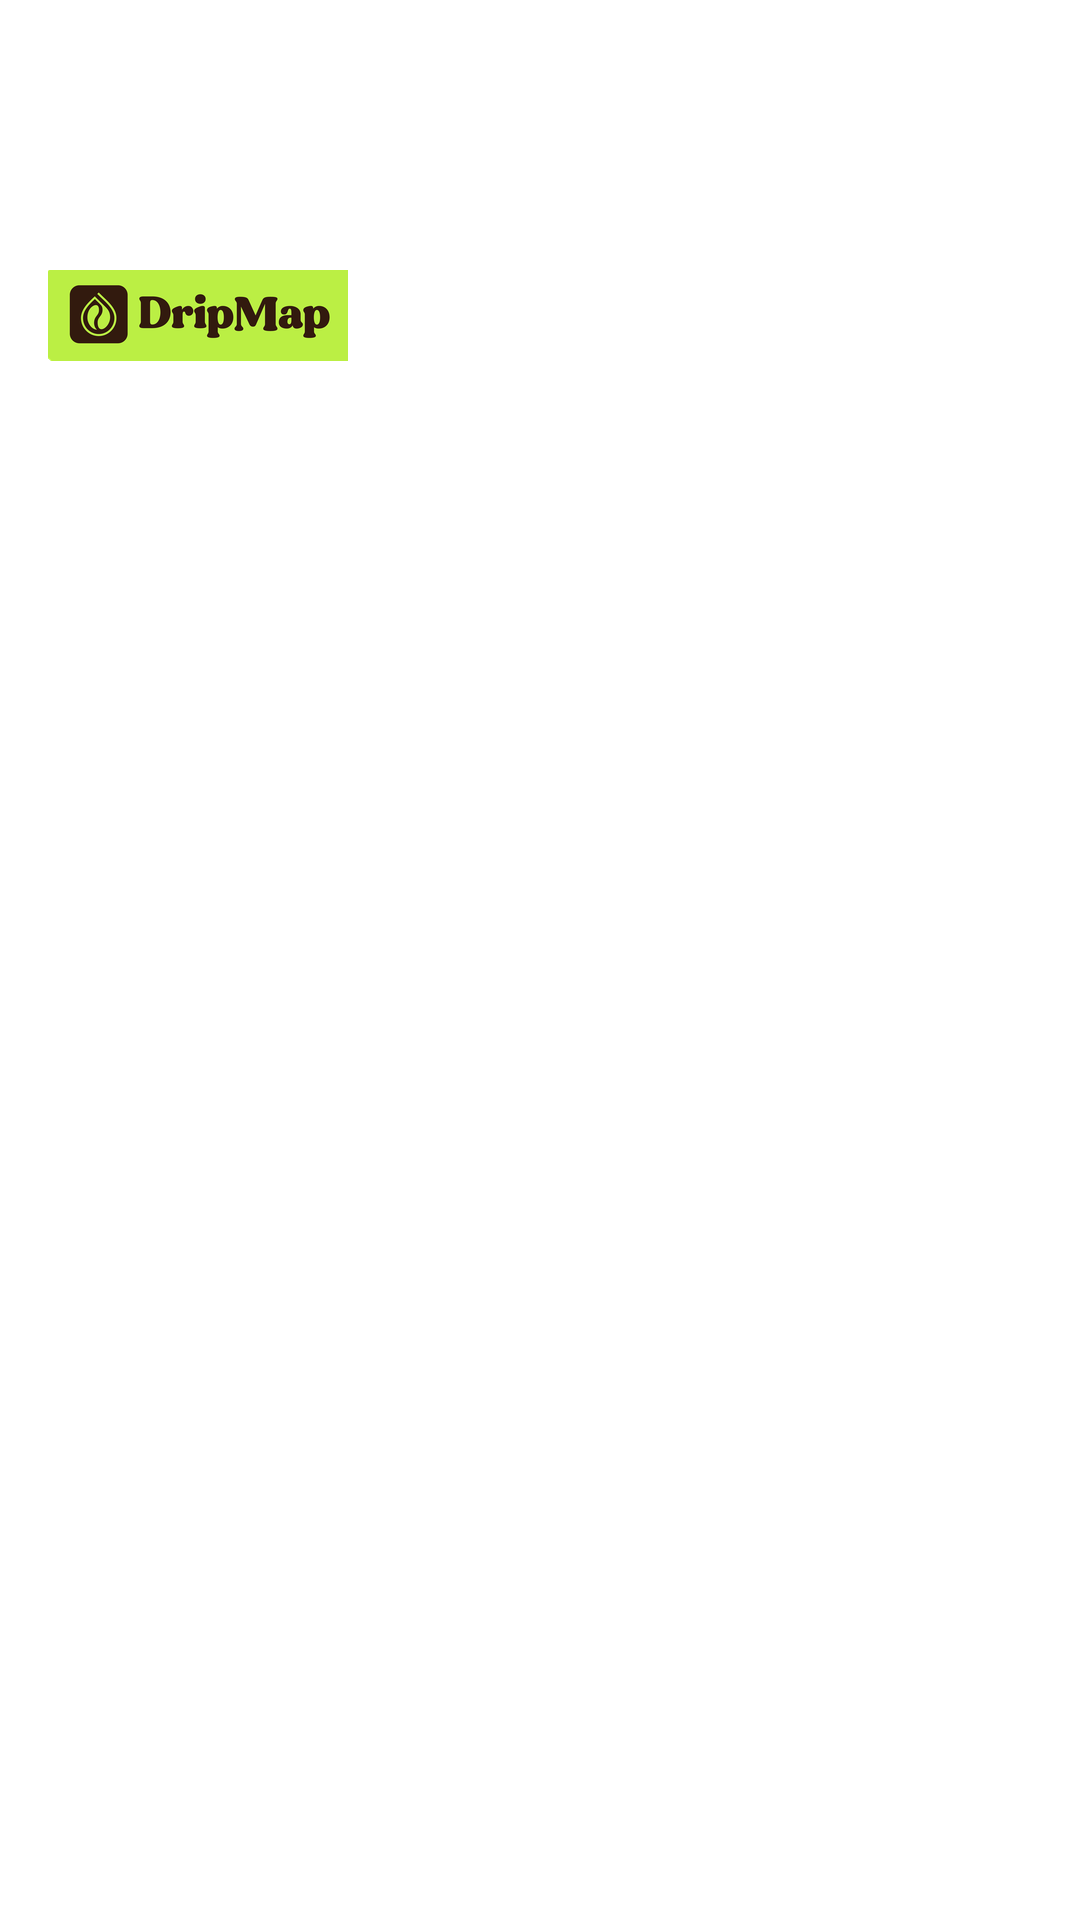
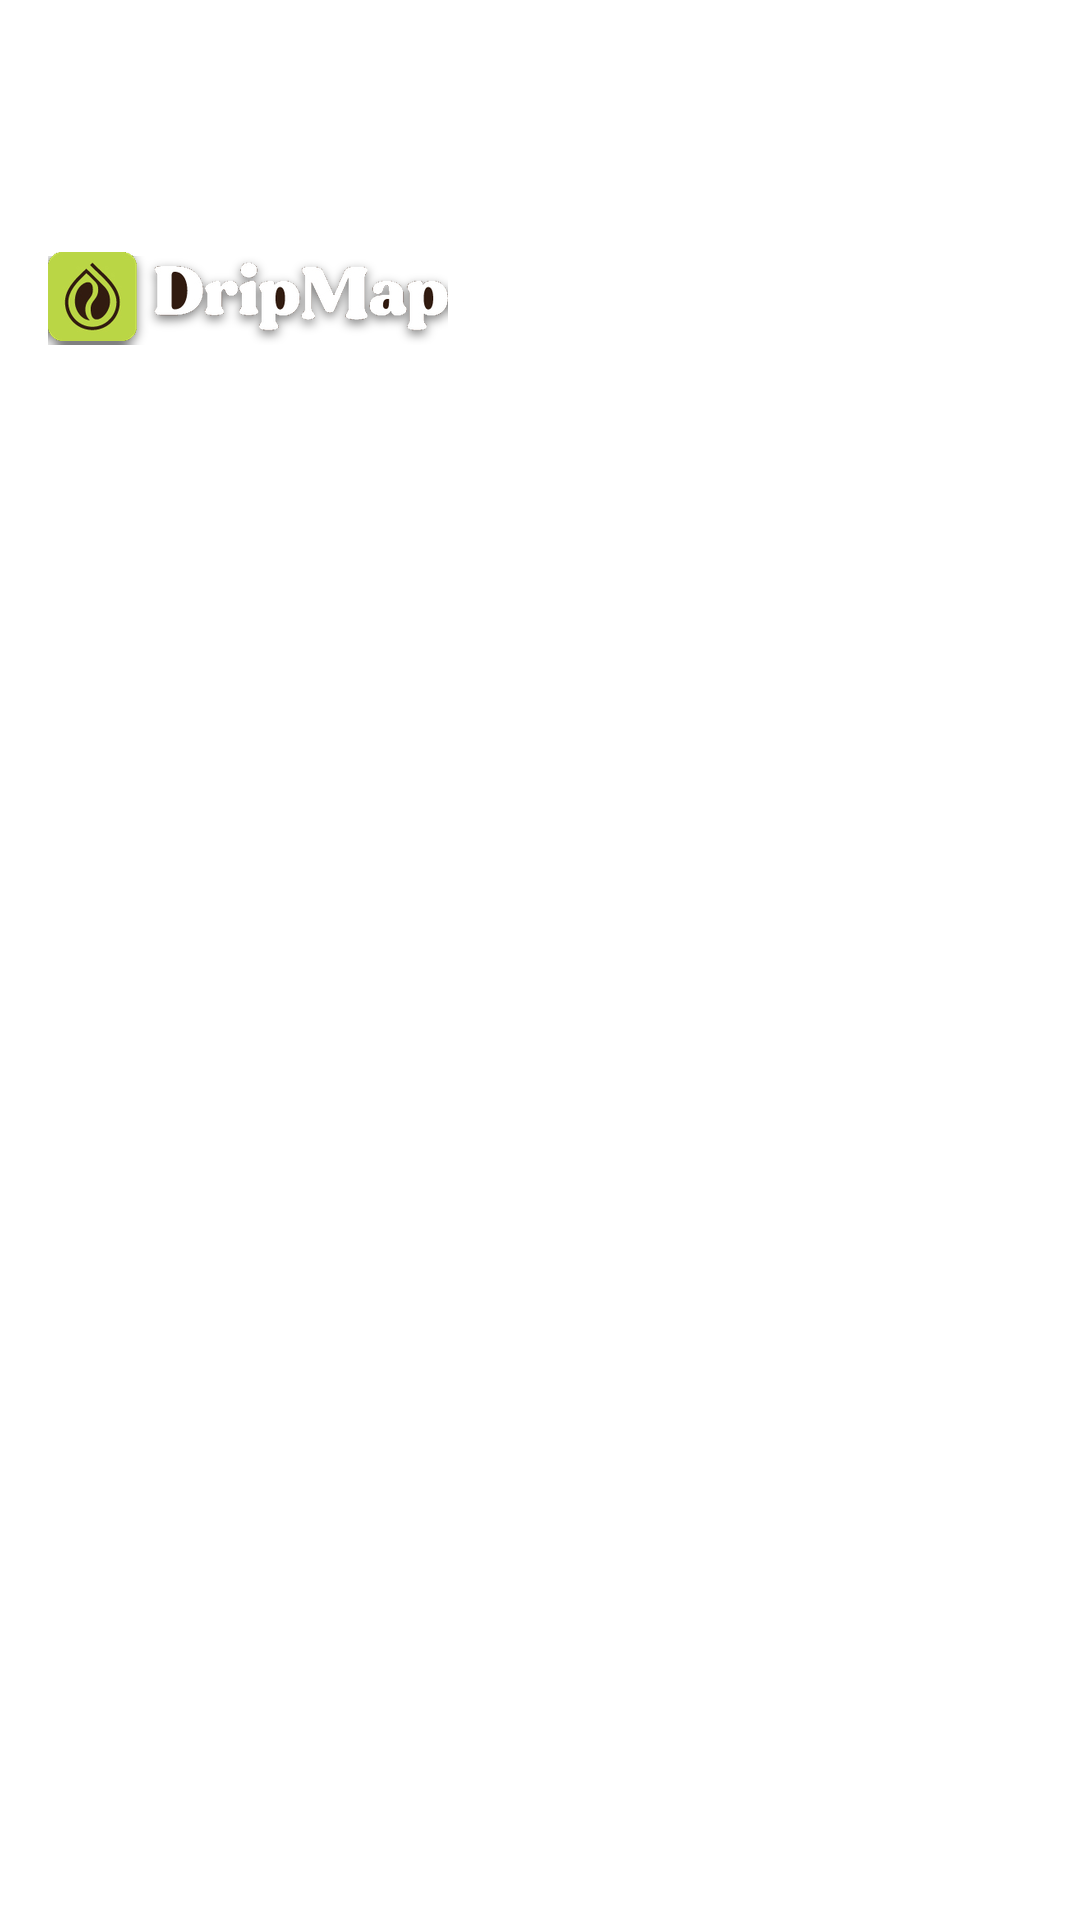
Assemble Episode 1 cut, rebuild DripMap overlay from the dark colourway
- Overlay is now the volt bean mark plus the white wordmark with no green
  panel, knocked out of public/logo-dark.jpg by flood filling the border with a
  brightness test. The artwork is unbacked, never redrawn. Committed PNG and a
  preview against mid-grey so the knockout can be checked.
- Cut timings are generated from measured speech (word-level transcription,
  0.30 s pre-roll, 0.50 s tail) instead of hand-picked trims, which had cut into
  dialogue on the first assembly.
- Shot 8b holds a second after the line; shot 10 re-rendered because the
  corkboard floated; shot 11c corrected to the take with the ROONEY'S sign.
- End card rewritten with the follow copy and doubled to 14 s.
- Documented the sandbox pipeline, including that local files reach it by
  media upload rather than base64 chunking.

Claude-Session: https://claude.ai/code/session_0158EeHJP6qCkUMCP3xqbB8B

Changed region(s): [[0.0306, 0.125, 0.4278, 0.1875]]

diff --git a/content/cafe-cherki/EPISODE_01_GRAND_OPENING.md b/content/cafe-cherki/EPISODE_01_GRAND_OPENING.md
@@ -283,17 +283,47 @@ Overlay `overlay/dripmap-overlay-1080x1920.png` on the top track for the full du
 | 6 | "He is, I'm afraid, taking the piss. … Not you, Doreen." | `ec23fe2c-5d45-4744-8bd4-84310ee10927` | seedance | 8 s | |
 | 7 | Madeleine with tweezers | `e8da70ec-8e32-4c3e-8024-7999cd6f047c` | kling3_0 | 5 s | silent + foley |
 | 8a | Haaland "Black coffee. Big." | `c7f58665-b888-415f-93b0-b12c14359347` | wan2_7 | 8 s | Haaland v3 puppet, British take A |
-| 8b | Cherki "Matchas only mate!" | `159f26cd-877e-48e2-a942-aeb0d5fefce9` | wan2_7 | 8 s | take B, comma removed |
+| 8b | Cherki "Matchas only mate!" | `159f26cd-877e-48e2-a942-aeb0d5fefce9` | wan2_7 | 8 s | take B; hold 1 s after the line before cutting |
 | 9 | Cherki CU, "C'est de l'art." | `5a8d4fd9-9886-4e46-8339-30ee67b49320` | seedance_2_5 | 6 s | Cherki alone in frame; Seedance after Wan could not hold sync |
-| 10 | Rashford dials, Maguire on the tea behind | `06c1d515-f1a6-4304-a5a2-3564b7e42c40` | kling3_0 | 5 s | silent + foley, corkboard fixed to wall |
+| 10 | Rashford dials, Maguire on the tea behind | `056829d1-796c-4c89-9c29-5db788450495` | kling3_0 | 5 s | silent + foley; corkboard re-pinned, camera locked off |
 | 11a | Grealish "I'm training in Ibiza, wot are you on about?" | `2633064a-e868-4ec8-b284-0d22d41e4c0d` | wan2_7 | 8 s | Ibiza terrace, blonde hair |
 | 11a′ | Rashford "I know." | `877c48e5-50e1-4c6d-8009-0ef9e8b28a6a` | wan2_7 | 6 s | |
 | 11b | Kane "Is this about the oat milk again?" | `38b7d7e8-d416-4b5f-8ba5-e1584f3a2dd8` | wan2_7 | 6 s | audio padded to 4.6 s, APPROVED |
-| 11c | Rooney grunt | `1d1c5888-8ef2-44bc-bde9-07d47db775d6` | kling3_0 | 5 s | black twin-tipped polo |
+| 11c | Rooney grunt | `0c112726-00f1-4992-9811-5dcad0e495d9` | kling3_0 | 5 s | polo + ROONEY'S sign |
 | 12a | Rashford "Lads. There's a Frenchman…" | `edce9885-22e8-495d-a5a4-cf40c42f9b4c` | seedance | 12 s | |
 | 12b | Maguire "Bring a what?" | `2f5b19fb-ab9b-4f8a-92d5-a49e59e840b3` | wan2_7 | 6 s | |
 | 13 | Cherki flips the sign | `30c958ac-c5b8-47bd-aaf7-473d42120cc1` | kling3_0 | 5 s | silent + foley |
 | 14 | Car, "The mandem wants aesthetic? Say less." | `745ef389-ffc7-4762-aa03-45c393ad0ead` | wan2_7 | 8 s | APPROVED |
-| — | End card "NEXT TIME AT CAFÉ CHERKI" | to build in the edit | | 3 s | |
+| — | End card | built in ffmpeg | | 14 s | copy below; sting loops under, fades at 12.6 s |
 
 Raw material runs ~180 s; the cut targets 60 s, so most clips use 2–4 s of their length.
+
+
+---
+
+## End card copy (locked)
+
+Runs 14 s over the bumper sting. Lines fade in staggered.
+
+> **NEXT TIME AT**
+> **CAFÉ CHERKI**
+>
+> What are Rash and the lads up to?
+> Who's Cherki's direct source?
+> Who runs London?
+>
+> **Follow @dripmap.space**
+> for more episodes
+
+## Cut timings — derived, not guessed
+
+Every trim is generated from measured speech. Each source clip is transcribed with
+word-level timestamps; the in point is 0.30 s before the first word and the out point
+0.50 s after the last. Silent inserts get fixed short durations.
+
+This exists because hand-picked trims cut into dialogue on the first assembly — the hook
+runs to 7.8 s and had been given 5.5 s, Nan's three-line exchange runs to 13.4 s and had
+been given 7 s. Re-measure and regenerate rather than adjusting trims by eye.
+
+Full-dialogue runtime is 98 s of clips plus a 2.2 s ident and a 14 s end card, 112 s in
+all. Getting under 60 s means cutting lines or a cameo, not shaving handles.

diff --git a/content/cafe-cherki/HIGGSFIELD_ASSETS.md b/content/cafe-cherki/HIGGSFIELD_ASSETS.md
@@ -619,3 +619,36 @@ ident via the full-duration overlay, so it is not drawn into the ident itself.
   as `start_image`.
 - Guard prompts against duplicate people with "no duplicate people", never "exactly one
   person", which silently deletes characters the scene needs.
+
+## Episode 1 assembled cut (2026-09-04)
+
+Built in the Higgsfield sandbox with ffmpeg. All segments normalised to 1080x1920, 30 fps,
+square pixels, audio loudness-matched to -16 LUFS with 60 ms / 80 ms fades at each join,
+then concatenated and the DripMap overlay burned over the full duration.
+
+| Version | Media ID | Note |
+|---|---|---|
+| v3 FINAL | `379352e5-2f3f-4389-bae0-e9e4276631f0` | 112 s, 40 MB. Owner approved |
+| v2 | `fb9bddc1-36be-4e95-9f73-3a60822d7984` | full dialogue, new logo, 100 s |
+| v1 | `86deec7c-208f-450f-ad36-c8392ca72c3c` | superseded, dialogue was clipped |
+| Overlay PNG v2 | `8643cbd2-d2aa-440a-84b6-be7269428dd4` | also committed under `overlay/` |
+| Ident + episode line preview | `d61b215c-fdca-40ec-ba45-ee9a2963d376` | |
+| Logo source for the knockout | `131182c3-0ed4-4907-805e-1387cf50272b` | `public/logo-dark.jpg` |
+
+Late fixes in v3: shot 8b holds a second longer after the line; shot 10 re-rendered
+(`056829d1…`) because the corkboard floated in the previous take; shot 11c corrected to the
+clip with the ROONEY'S sign; end card rewritten and doubled to 14 s.
+
+### Pipeline notes
+
+- **Getting files in and out.** The build environment cannot reach the Higgsfield CDN, but
+  it *can* PUT to the media upload endpoint. So local assets reach the sandbox by
+  media_upload from here, then curl from the CDN inside the sandbox. Base64 chunking is
+  not needed.
+- ffmpeg inside a `while read` loop eats stdin and silently corrupts the loop. Always pass
+  `-nostdin`.
+- `bc` is not installed in the sandbox; use awk for arithmetic.
+- Never run two builds against the same output directory at once — the second one clobbers
+  the first mid-write and the failure looks like a corrupt file.
+- The sandbox is discarded between calls unless a background job holds the lease. Long
+  builds must run with `background: true`.

diff --git a/content/cafe-cherki/SERIES_BIBLE.md b/content/cafe-cherki/SERIES_BIBLE.md
@@ -67,19 +67,22 @@ Rules:
 ## DripMap overlay
 
 Every video carries the DripMap badge for its full duration, including the ident and
-the end card. Assets in `overlay/`:
+the end card.
 
-- `dripmap-overlay-1080x1920.png`: transparent full-frame layer, drop it on the top
-  track of the edit at 100% and it sits correctly. Built from the official
-  `public/logo-volt.jpg` (Brand Guidelines: volt variation for marketing assets), not
-  redrawn.
-- `overlay-preview.jpg`: the same layer over a coffee-dark ground with the Reels UI
-  safe zones shaded and the caption box outlined.
+Built from `public/logo-dark.jpg` — the colourway that is already the volt bean mark plus
+the white wordmark, with no green panel behind it. The dark ground is removed by flood
+filling from the image border using a brightness test (anything below 140 max-channel is
+ground), which clears the background while leaving the dark drip shape *inside* the mark
+intact. The artwork is never redrawn or recoloured, only unbacked.
 
-Placement: badge 300 px wide at x=48, y=270, which clears the Instagram header
-(top 250 px), the action rail (right 130 px) and the caption/UI area (bottom 420 px).
-Captions live inside the outlined box above the bottom safe zone so the overlay,
-captions and IG chrome never collide.
+- Lockup trims to 487x108, placed at 400 px wide, top-left at x=48, y=252.
+- A 50% black gaussian shadow sits 4 px under it so the white wordmark holds against pale
+  footage.
+- Clear of the Instagram header (top 250 px), the right action rail (130 px) and the
+  caption area (bottom 420 px).
+
+Assets in `overlay/`: `dripmap-overlay-1080x1920.png` (transparent, full frame) and
+`overlay-preview.jpg` (shown against mid-grey to check the knockout).
 
 ## Style rules (locked)
 
